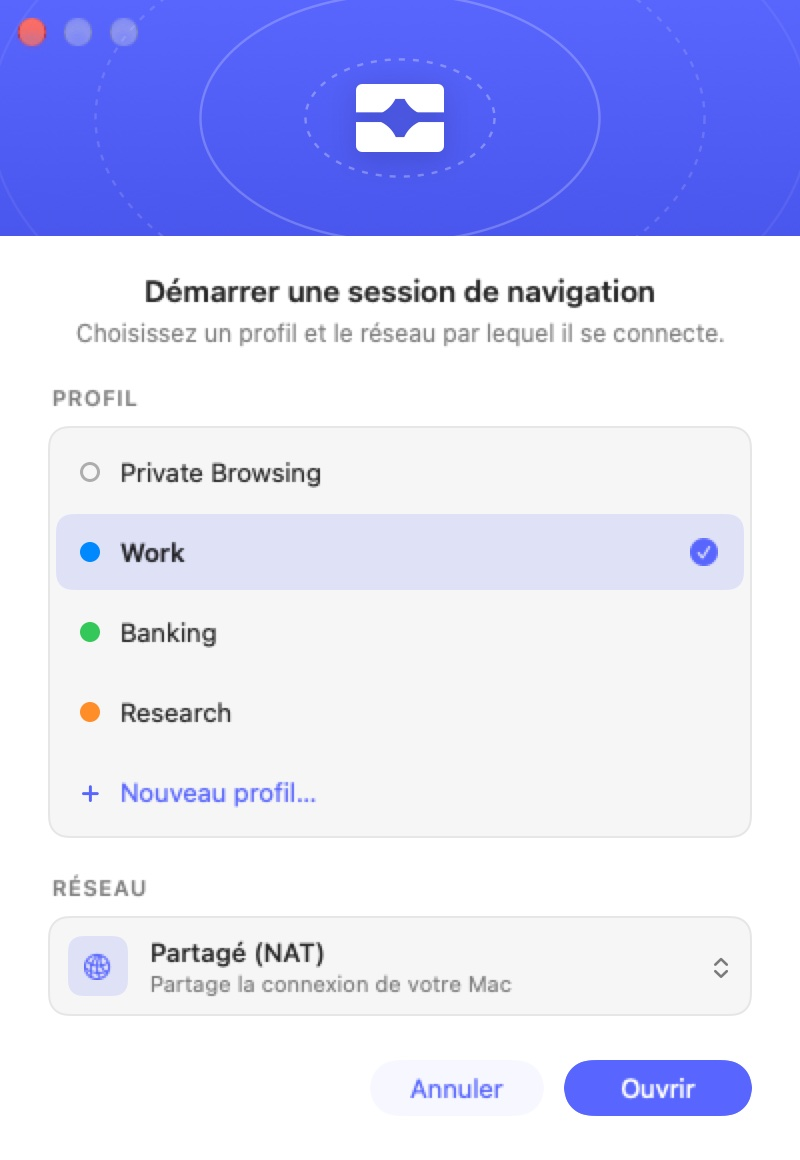
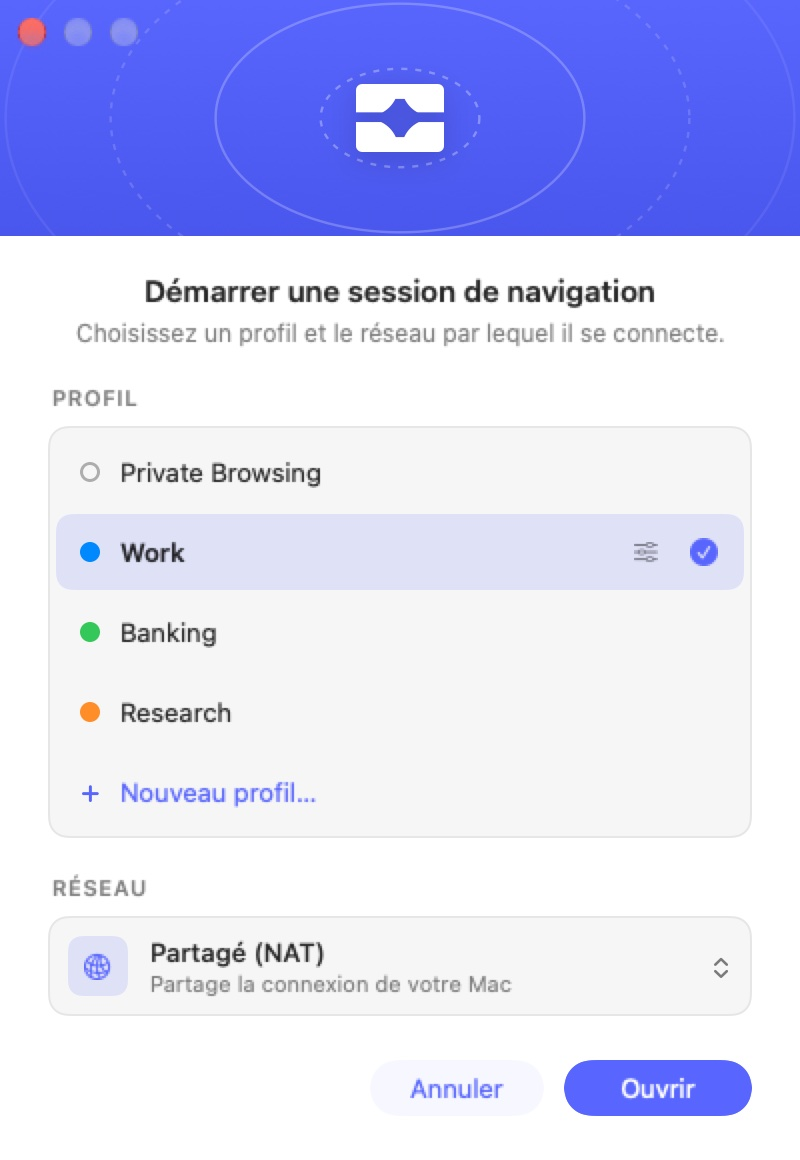
Default new profiles to a macOS Chrome user agent; edit profiles from the launch picker
New profiles now start with the Chrome-on-macOS user agent
(ProfileSettings.defaultUserAgent). Profiles saved before the field
existed decode to the empty value, so they keep the guest's Linux
Chrome identity; E2E 3.2 and the manual follow the new default.

The "Start a Browser Session" picker gains a per-row edit button that
opens the profile's settings window. The picker observes
AppState.profileVersion (ObservedLaunchPicker) so saved, created and
deleted profiles show at once; it keeps the selection and the network
choice unless the selected profile's own network setting changed.

diff --git a/Sources/Browser/LaunchPicker.swift b/Sources/Browser/LaunchPicker.swift
@@ -11,6 +11,16 @@ struct LaunchChoice {
     let network: String
 }
 
+/// Hosts the launch picker so it re-renders when profiles change (an edit
+/// saved from the picker's own edit buttons, a profile deleted elsewhere).
+/// `make` builds the picker with the current `profileVersion`; its @State
+/// survives the rebuilds, so only `profileVersion` matters on later passes.
+struct ObservedLaunchPicker: View {
+    let state: AppState
+    let make: (Int) -> LaunchPickerView
+    var body: some View { make(state.profileVersion) }
+}
+
 /// The profile chooser Bromure shows before every VM boots (launch, ⌘N,
 /// a Dock click, "Open a Different Profile…"): pick a profile — or create
 /// one — and the network its session boots on. Styled like the starting
@@ -19,6 +29,12 @@ struct LaunchPickerView: View {
     let interfaces: [VMConfig.BridgedInterface]
     let suggestedColor: () -> ProfileColor?
     let onCreateProfile: (String, ProfileColor?) -> Profile
+    /// Opens a profile's settings window; nil hides the edit buttons.
+    let onEditProfile: ((UUID) -> Void)?
+    /// Bumped whenever a profile is saved, created or deleted…
+    let profileVersion: Int
+    /// …so the list re-reads the current profiles from here.
+    let currentProfiles: (() -> [Profile])?
     let onOpen: (LaunchChoice) -> Void
     let onCancel: () -> Void
 
@@ -38,12 +54,18 @@ struct LaunchPickerView: View {
          interfaces: [VMConfig.BridgedInterface],
          suggestedColor: @escaping () -> ProfileColor?,
          onCreateProfile: @escaping (String, ProfileColor?) -> Profile,
+         onEditProfile: ((UUID) -> Void)? = nil,
+         profileVersion: Int = 0,
+         currentProfiles: (() -> [Profile])? = nil,
          onOpen: @escaping (LaunchChoice) -> Void,
          onCancel: @escaping () -> Void) {
         _profiles = State(initialValue: profiles)
         self.interfaces = interfaces
         self.suggestedColor = suggestedColor
         self.onCreateProfile = onCreateProfile
+        self.onEditProfile = onEditProfile
+        self.profileVersion = profileVersion
+        self.currentProfiles = currentProfiles
         self.onOpen = onOpen
         self.onCancel = onCancel
         _profileID = State(initialValue: initialProfileID)
@@ -113,6 +135,7 @@ struct LaunchPickerView: View {
             network = Self.defaultNetwork(for: profiles.first { $0.id == newID },
                                           interfaces: interfaces)
         }
+        .onChange(of: profileVersion) { reloadProfiles() }
         .onAppear { listFocused = true }
         .sheet(isPresented: $creatingProfile) {
             NewProfileForm(initialColor: suggestedColor()) { name, color in
@@ -124,6 +147,23 @@ struct LaunchPickerView: View {
             } onCancel: {
                 creatingProfile = false
             }
+        }
+    }
+
+    /// A profile was edited, created or deleted elsewhere (its settings
+    /// window, the profile manager): show the current list. Keeps the
+    /// selection when it still exists, and only re-derives the network
+    /// when the selected profile's own network setting changed, so a
+    /// choice made here isn't thrown away by an unrelated edit.
+    private func reloadProfiles() {
+        guard let fresh = currentProfiles?() else { return }
+        let before = profiles.first { $0.id == profileID }
+        profiles = fresh
+        guard let selected = fresh.first(where: { $0.id == profileID }) ?? fresh.first else { return }
+        if selected.id != profileID {
+            profileID = selected.id  // onChange(of: profileID) resets the network
+        } else if selected.settings.networkInterface != before?.settings.networkInterface {
+            network = Self.defaultNetwork(for: selected, interfaces: interfaces)
         }
     }
 
@@ -215,6 +255,19 @@ struct LaunchPickerView: View {
                 .font(.system(size: 13, weight: selected ? .semibold : .regular))
                 .lineLimit(1)
             Spacer(minLength: 8)
+            if let onEditProfile {
+                Button { onEditProfile(p.id) } label: {
+                    Image(systemName: "slider.horizontal.3")
+                        .font(.system(size: 12))
+                        .foregroundStyle(.secondary)
+                        .frame(width: 22, height: 22)
+                        .contentShape(Rectangle())
+                }
+                .buttonStyle(.plain)
+                .help(Text("Edit Profile\u{2026}"))
+                .accessibilityLabel(Text("Edit Profile\u{2026}"))
+                .opacity(selected || hoveredProfile == p.id ? 1 : 0)
+            }
             Image(systemName: "checkmark.circle.fill")
                 .font(.system(size: 14))
                 .foregroundStyle(Brand.accent)

diff --git a/Sources/SandboxEngine/Profile.swift b/Sources/SandboxEngine/Profile.swift
@@ -226,12 +226,14 @@ public struct ProfileSettings: Codable, Equatable {
     /// their own process). Measured on an ad-heavy page: 70 renderer
     /// processes and ~2.1 GB used with it on, 5 and ~1.4 GB with it off.
     public var strictSiteIsolation: Bool = true
-    /// Custom User-Agent override. Empty = present as Chrome on macOS
-    /// (the guest builds the string from its real Chromium version so the
-    /// platform reads "Macintosh" instead of leaking the Linux VM, while
-    /// the Chrome version stays accurate). A non-empty value is sent to
-    /// Chromium verbatim via `--user-agent`.
-    public var userAgent: String = ""
+    /// User-Agent override, sent to Chromium verbatim via `--user-agent`.
+    /// New profiles present as Chrome on macOS (`defaultUserAgent`).
+    /// Empty = the guest's built-in Linux Chrome identity; profiles saved
+    /// before the field existed decode to that, so they don't change.
+    public var userAgent: String = ProfileSettings.defaultUserAgent
+    /// The User-Agent every new profile starts with.
+    public static let defaultUserAgent =
+        "Mozilla/5.0 (Macintosh; Intel Mac OS X 10_15_7) AppleWebKit/537.36 (KHTML, like Gecko) Chrome/157.0.0.0 Safari/537.36"
     /// Which browser the session launches (Chromium or Google Chrome).
     public var browser: BrowserChoice = .chromium
 
@@ -405,7 +407,7 @@ public struct ProfileSettings: Codable, Equatable {
         enableZeroCopy = try c.decodeIfPresent(Bool.self, forKey: .enableZeroCopy) ?? defaults.enableZeroCopy
         enableSmoothScrolling = try c.decodeIfPresent(Bool.self, forKey: .enableSmoothScrolling) ?? defaults.enableSmoothScrolling
         strictSiteIsolation = try c.decodeIfPresent(Bool.self, forKey: .strictSiteIsolation) ?? defaults.strictSiteIsolation
-        userAgent = try c.decodeIfPresent(String.self, forKey: .userAgent) ?? defaults.userAgent
+        userAgent = try c.decodeIfPresent(String.self, forKey: .userAgent) ?? ""
         browser = try c.decodeIfPresent(BrowserChoice.self, forKey: .browser) ?? defaults.browser
         enableAdBlocking = try c.decodeIfPresent(Bool.self, forKey: .enableAdBlocking) ?? defaults.enableAdBlocking
         // Migration: legacy enableWarp bool → vpnMode enum

diff --git a/Sources/Browser/SafariSandbox.swift b/Sources/Browser/SafariSandbox.swift
@@ -445,17 +445,27 @@ final class GUIAppDelegate: NSObject, NSApplicationDelegate, NSWindowDelegate, N
         let window = NSWindow(contentRect: .zero,
                               styleMask: [.titled, .closable, .fullSizeContentView],
                               backing: .buffered, defer: false)
-        let view = LaunchPickerView(
-            profiles: profiles, initialProfileID: initial,
-            interfaces: VMConfig.bridgedInterfaces(),
-            suggestedColor: { [weak self] in self?.profileEditor.suggestedColor() },
-            onCreateProfile: { [weak self] name, color in
-                guard let self else { return Profile(name: name, color: color) }
-                return self.profileEditor.createProfile(name: name, color: color)
-            },
-            onOpen: { [weak self] choice in self?.finishLaunchPicker(choice) },
-            onCancel: { [weak self] in self?.finishLaunchPicker(nil) }
-        )
+        let interfaces = VMConfig.bridgedInterfaces()
+        let view = ObservedLaunchPicker(state: state) { [weak self] version in
+            LaunchPickerView(
+                profiles: profiles, initialProfileID: initial,
+                interfaces: interfaces,
+                suggestedColor: { [weak self] in self?.profileEditor.suggestedColor() },
+                onCreateProfile: { [weak self] name, color in
+                    guard let self else { return Profile(name: name, color: color) }
+                    return self.profileEditor.createProfile(name: name, color: color)
+                },
+                onEditProfile: { [weak self] id in
+                    self?.profileEditor.presentSettings(forProfileID: id)
+                },
+                profileVersion: version,
+                currentProfiles: { [weak self] in
+                    self?.state.profileManager.allProfiles ?? []
+                },
+                onOpen: { [weak self] choice in self?.finishLaunchPicker(choice) },
+                onCancel: { [weak self] in self?.finishLaunchPicker(nil) }
+            )
+        }
         launchPickerCompletion = completion
         // Same chrome as the starting splash: the brand band runs up under
         // the traffic lights.

diff --git a/Tests/SafariSandboxTests/SafariSandboxTests.swift b/Tests/SafariSandboxTests/SafariSandboxTests.swift
@@ -170,7 +170,21 @@ struct ProfileSettingsTests {
         // before the setting existed.
         var expected = ProfileSettings()
         expected.allowPrinting = false
+        expected.userAgent = ""
         #expect(s == expected)
+    }
+
+    @Test("New profiles present as Chrome on macOS; older profiles keep their user agent")
+    func userAgentDefault() throws {
+        let fresh = ProfileSettings()
+        #expect(fresh.userAgent == "Mozilla/5.0 (Macintosh; Intel Mac OS X 10_15_7) AppleWebKit/537.36 (KHTML, like Gecko) Chrome/157.0.0.0 Safari/537.36")
+        #expect(fresh.toVMConfig().userAgent == fresh.userAgent)
+        let roundTripped = try JSONDecoder().decode(ProfileSettings.self, from: JSONEncoder().encode(fresh))
+        #expect(roundTripped.userAgent == fresh.userAgent)
+        #expect(try JSONDecoder().decode(ProfileSettings.self, from: Data("{}".utf8)).userAgent == "")
+        var cleared = fresh
+        cleared.userAgent = ""
+        #expect(try JSONDecoder().decode(ProfileSettings.self, from: JSONEncoder().encode(cleared)).userAgent == "")
     }
 
     @Test("New profiles print and keep Keychain passwords off; older profiles keep printing off")

diff --git a/Sources/Browser/ProfileSettingsView.swift b/Sources/Browser/ProfileSettingsView.swift
@@ -979,7 +979,7 @@ struct ProfileSettingsView: View {
             // User Agent
             VStack(alignment: .leading, spacing: 6) {
                 Text("User Agent").font(.headline)
-                Text("How this browser identifies itself to websites. Leave blank to use Bromure’s default Linux Chrome user agent, or enter a custom value to override it.")
+                Text("How this browser identifies itself to websites. New profiles present as Chrome on macOS. Leave blank to use Bromure’s Linux Chrome user agent.")
                     .settingDescription()
                 TextField(
                     "Mozilla/5.0 (X11; Linux x86_64) AppleWebKit/537.36 (KHTML, like Gecko) Chrome/154.0.0.0 Safari/537.36",

diff --git a/Sources/Browser/ManualShots.swift b/Sources/Browser/ManualShots.swift
@@ -102,6 +102,7 @@ enum ManualShots {
                              .init(id: "en7", localizedName: "USB 10/100/1000 LAN")],
                 suggestedColor: { .purple },
                 onCreateProfile: { Profile(name: $0, color: $1) },
+                onEditProfile: { _ in },
                 onOpen: { _ in }, onCancel: {})
             let host = hosting(view)
             host.safeAreaRegions = []
